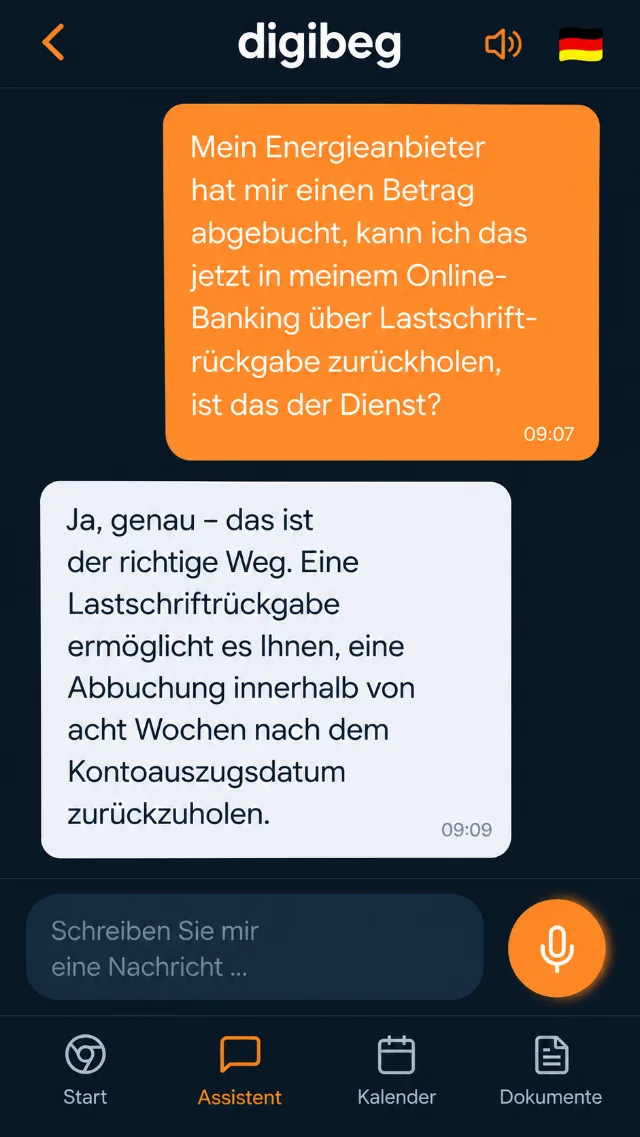
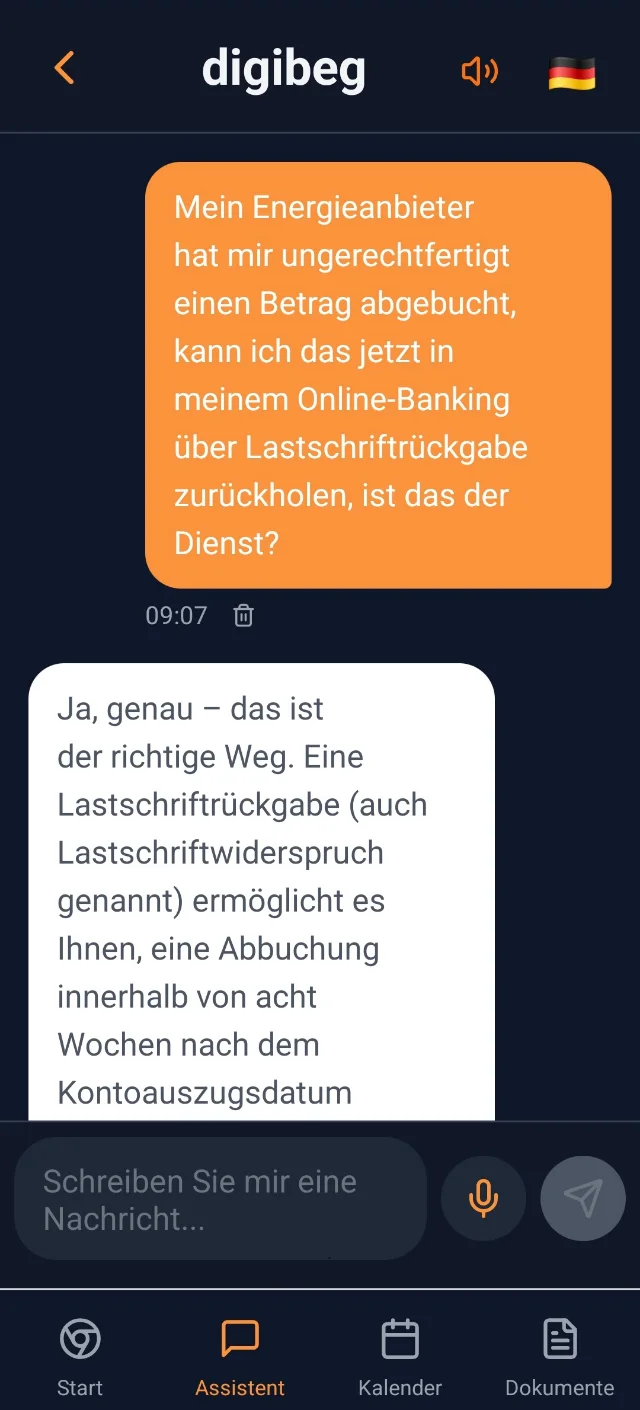
Ablauf Schritt 3: Original-App-Screenshot des Assistenten-Chats

diff --git a/index-en.html b/index-en.html
@@ -307,7 +307,7 @@
                   </picture>
                   <picture class="flow__shot">
                     <source srcset="assets/screens/flow-assistent-640.webp" type="image/webp" />
-                    <img src="assets/screens/flow-assistent-640.jpg" alt="Step 3 in the app: chat with the assistant, a follow-up question about reversing a direct debit is answered clearly (German app interface)" width="640" height="1137" loading="lazy" decoding="async" />
+                    <img src="assets/screens/flow-assistent-640.jpg" alt="Step 3 in the app: chat with the assistant, a follow-up question about reversing a direct debit is answered clearly (German app interface)" width="640" height="1410" loading="lazy" decoding="async" />
                   </picture>
                 </div>
               </div>
@@ -359,7 +359,7 @@
                     <div class="phone__screen">
                       <picture>
                         <source srcset="assets/screens/flow-assistent-640.webp" type="image/webp" />
-                        <img src="assets/screens/flow-assistent-640.jpg" alt="Chat with the assistant in the app: a follow-up question about reversing a direct debit is answered clearly (German app interface)" width="640" height="1137" loading="lazy" decoding="async" />
+                        <img src="assets/screens/flow-assistent-640.jpg" alt="Chat with the assistant in the app: a follow-up question about reversing a direct debit is answered clearly (German app interface)" width="640" height="1410" loading="lazy" decoding="async" />
                       </picture>
                     </div>
                   </div>

diff --git a/index.html b/index.html
@@ -307,7 +307,7 @@
                   </picture>
                   <picture class="flow__shot">
                     <source srcset="assets/screens/flow-assistent-640.webp" type="image/webp" />
-                    <img src="assets/screens/flow-assistent-640.jpg" alt="Schritt 3 in der App: Chat mit dem Assistenten, eine Nachfrage zur Lastschriftrückgabe wird verständlich beantwortet" width="640" height="1137" loading="lazy" decoding="async" />
+                    <img src="assets/screens/flow-assistent-640.jpg" alt="Schritt 3 in der App: Chat mit dem Assistenten, eine Nachfrage zur Lastschriftrückgabe wird verständlich beantwortet" width="640" height="1410" loading="lazy" decoding="async" />
                   </picture>
                 </div>
               </div>
@@ -359,7 +359,7 @@
                     <div class="phone__screen">
                       <picture>
                         <source srcset="assets/screens/flow-assistent-640.webp" type="image/webp" />
-                        <img src="assets/screens/flow-assistent-640.jpg" alt="Chat mit dem Assistenten in der App: Eine Nachfrage zur Lastschriftrückgabe wird verständlich beantwortet" width="640" height="1137" loading="lazy" decoding="async" />
+                        <img src="assets/screens/flow-assistent-640.jpg" alt="Chat mit dem Assistenten in der App: Eine Nachfrage zur Lastschriftrückgabe wird verständlich beantwortet" width="640" height="1410" loading="lazy" decoding="async" />
                       </picture>
                     </div>
                   </div>
